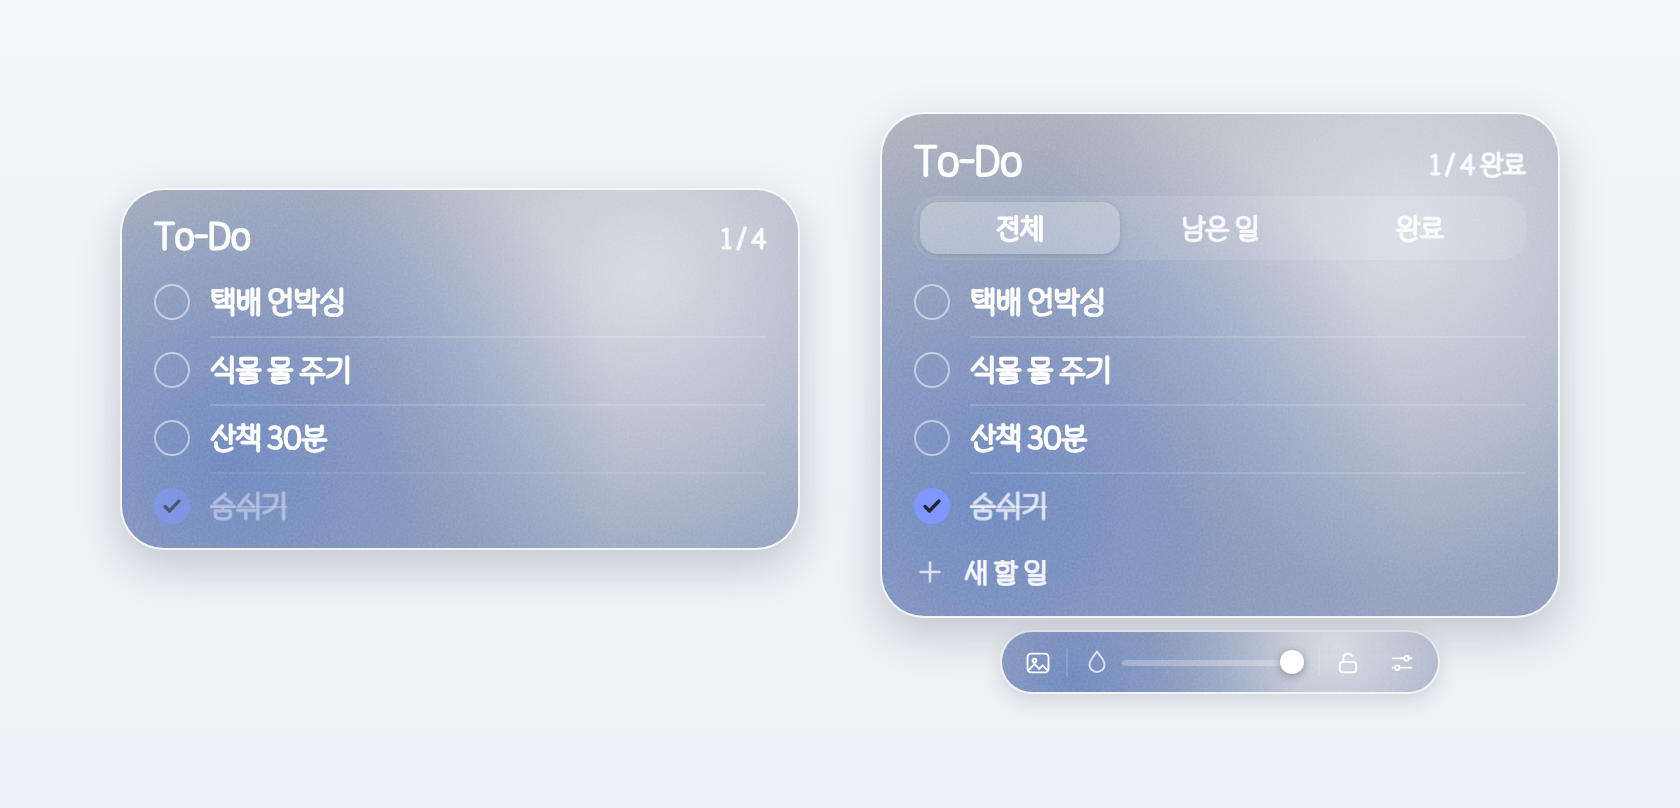
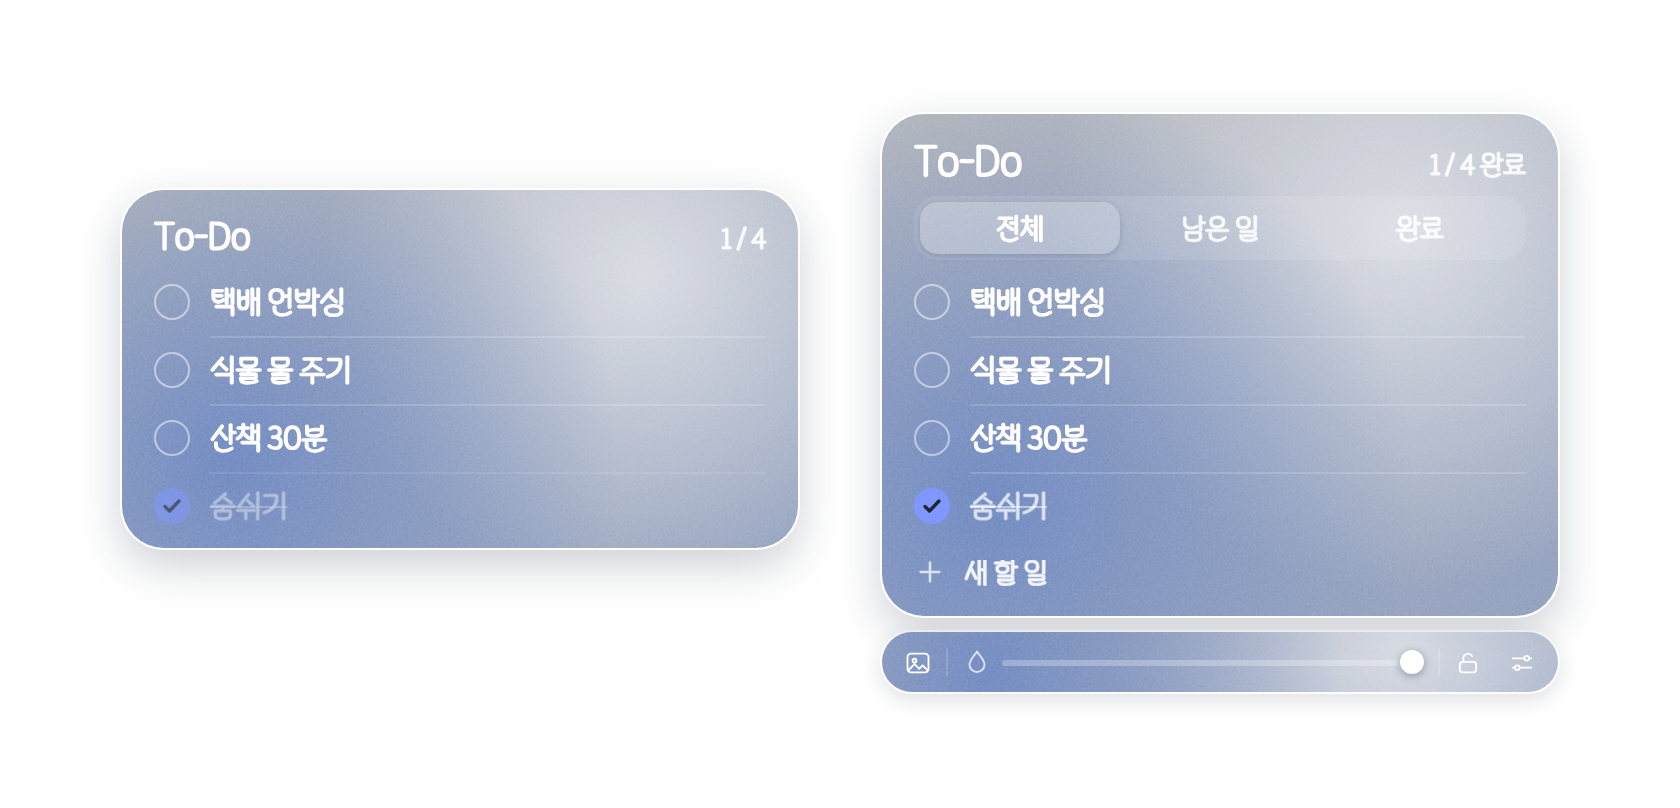
Site: transparent-background usage image
Claude-Session: https://claude.ai/code/session_01S6BLVG3G5yKSQ3PoGKaR1v

Changed region(s): [[0.7429, 0.7735, 0.9286, 0.8663], [0.5262, 0.7735, 0.681, 0.8663]]

diff --git a/docs/index.html b/docs/index.html
@@ -29,7 +29,7 @@ details{border-top:1px solid var(--field-line);padding:9px 0;font-size:12.5px}
 details:first-of-type{border-top:0}
 summary{cursor:pointer;font-weight:600}
 details p{margin:6px 0 0;font-size:12px;color:var(--sub)}
-.shot{display:block;width:min(680px,100%);height:auto;-webkit-mask-image:linear-gradient(90deg,transparent,#000 6%,#000 94%,transparent),linear-gradient(180deg,transparent,#000 8%,#000 92%,transparent);-webkit-mask-composite:source-in;mask-composite:intersect}
+.shot{display:block;width:min(680px,100%);height:auto}
 .cta{width:100%;max-width:320px;text-align:center}
 .btn{display:inline-flex;align-items:center;justify-content:center;gap:8px;padding:11px 26px;border-radius:999px;background:linear-gradient(180deg,#2A3140,#0D0F1A);color:#E4E8F0;text-decoration:none;font-size:13.5px;font-weight:600;letter-spacing:.01em;box-shadow:0 8px 18px -8px rgba(10,12,25,.55),inset 0 1px 0 rgba(255,255,255,.18);transition:transform .15s,box-shadow .15s}
 .btn svg{width:15px;height:15px}
